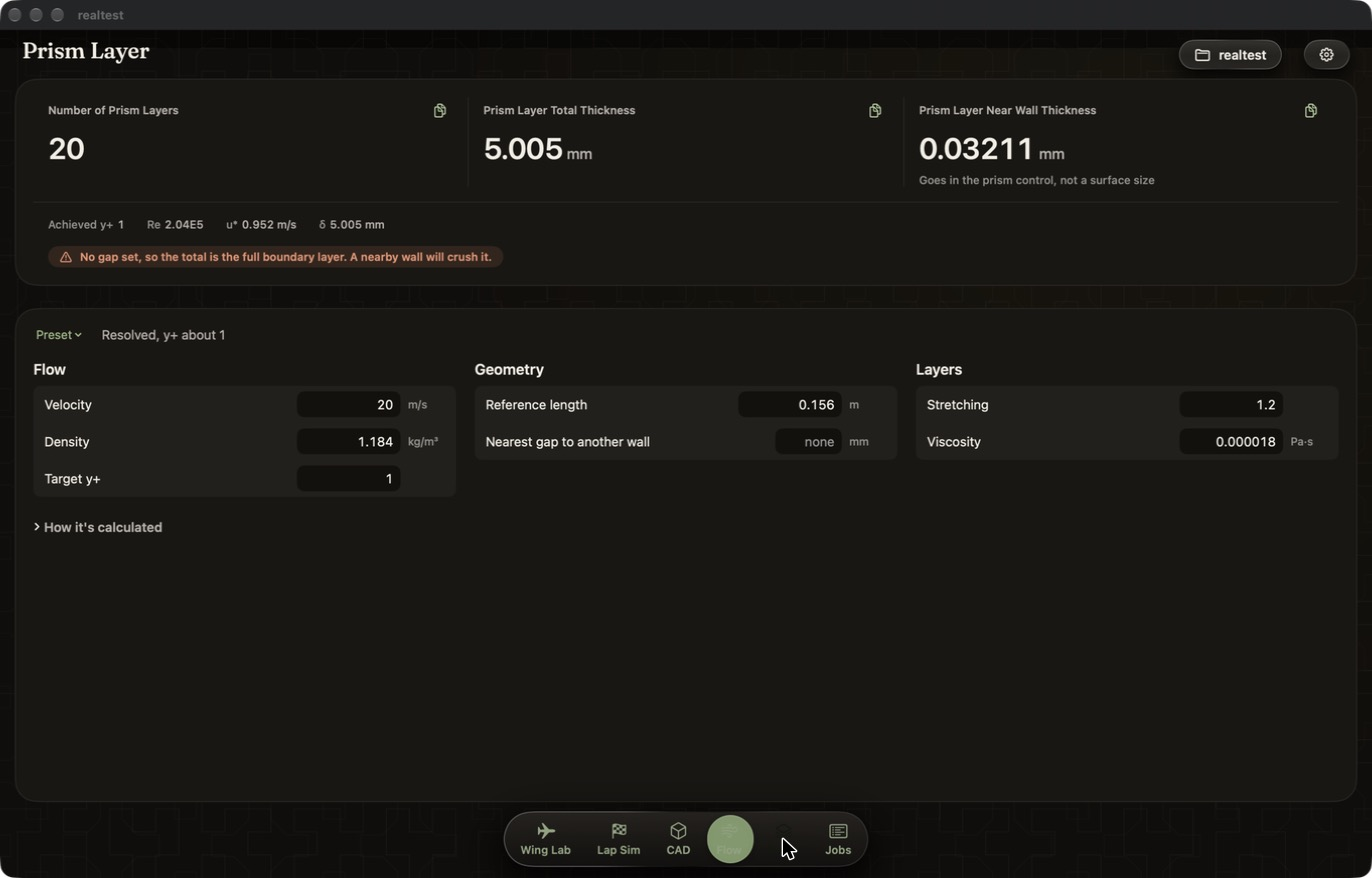
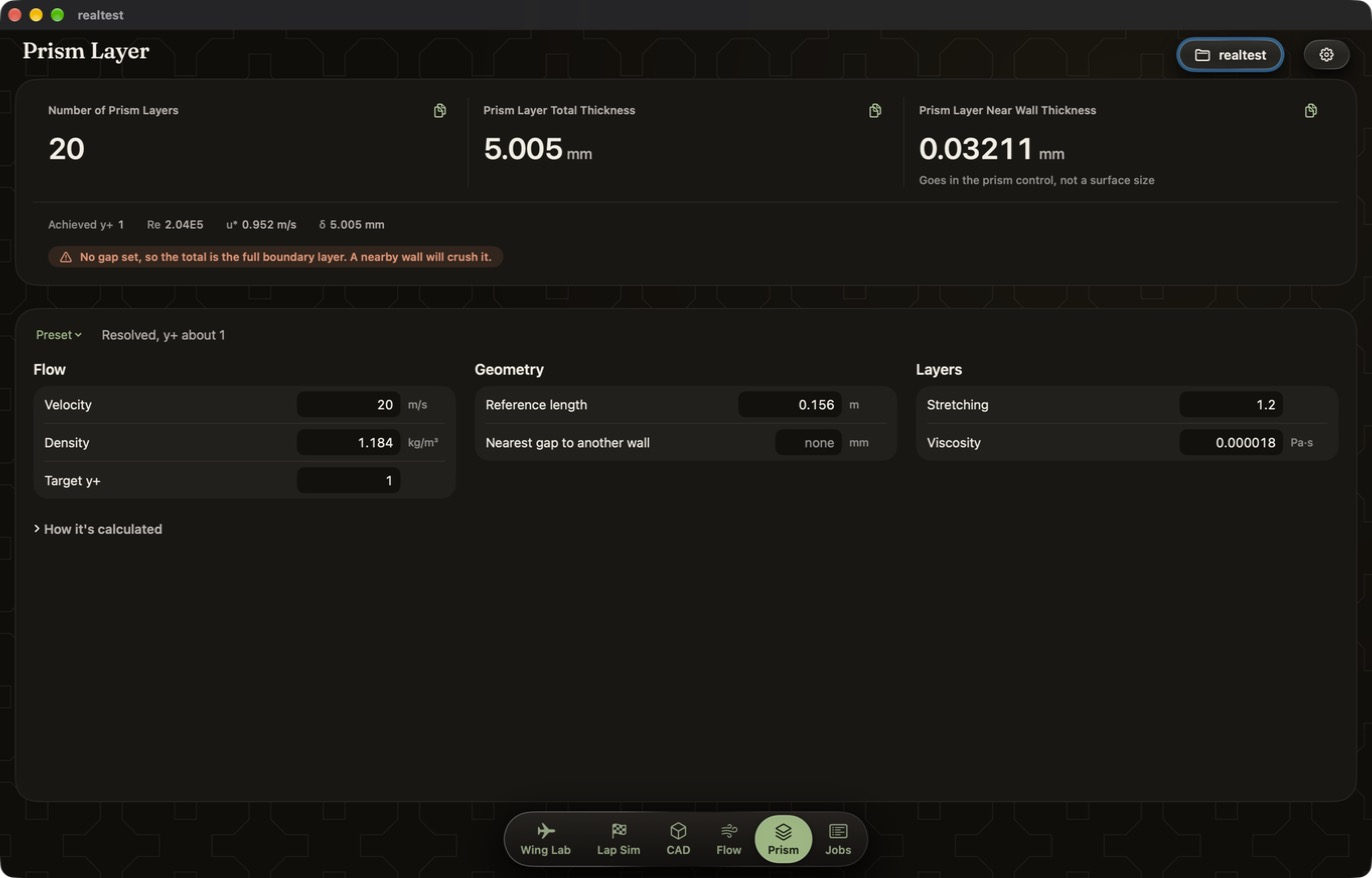
Prism menu, project values stay project values, decisions recorded
A Prism menu carries the presets and Use Project Values. Leaving a Prism field
no longer pins the project's value as if it were typed. docs/DECISIONS.md
records the November 2026 design-system changes and why; docs/polish/review.md
gets the measured counts.

diff --git a/app/AeroBench/AeroBenchApp.swift b/app/AeroBench/AeroBenchApp.swift
@@ -1,4 +1,5 @@
 import AeroBench3D
+import AppKit
 import SwiftUI
 
 @main
@@ -35,6 +36,16 @@ struct AeroBenchApp: App {
 }
 
 struct AeroBenchCommands: Commands {
+    /// Prism Layer's presets, as its Preset menu sets them
+    private func preset(yPlus: Double, layers: Int?, stretching: Double, _ undo: UndoManager?) {
+        var next = app.prism.inputs
+        next.yPlus = yPlus
+        next.stretching = stretching
+        if let layers { next.layers = layers }
+        app.tool = .prismLayer
+        app.prism.set(\.self, next, "Preset", undo: undo)
+    }
+
     let app: AppState
     @Environment(\.openWindow) private var openWindow
     @AppStorage("dummy.duration") private var dummyDuration = 10
@@ -109,6 +120,15 @@ struct AeroBenchCommands: Commands {
             Button("Export Elements as .dat…") { app.exportWingDat() }
             Button("Export Points as CSV…") { app.exportWingCSV() }
             Button("Export Report as PDF…") { app.exportWingReport() }
+        }
+        CommandMenu("Prism") {
+            let undo = { NSApp.keyWindow?.undoManager }
+            Button("Wing / Floor Preset") { preset(yPlus: 1, layers: nil, stretching: 1.2, undo()) }
+            Button("Body / Wheels Preset") { preset(yPlus: 40, layers: 4, stretching: 1.25, undo()) }
+            Button("Suspension Preset") { preset(yPlus: 40, layers: 3, stretching: 1.3, undo()) }
+            Divider()
+            Button("Use Project Values") { app.prism.set(\.self, PrismInputs(), "Use Project Values", undo: undo()) }
+                .disabled(app.prism.inputs == PrismInputs())
         }
         CommandMenu("Lap Sim") {
             Button("Run Lap Sim") { app.tool = .lapSim; app.runLapSim() }

diff --git a/app/AeroBench/Views/PrismLayerView.swift b/app/AeroBench/Views/PrismLayerView.swift
@@ -255,7 +255,8 @@ struct PrismLayerView: View {
 
     /// A value that follows the project until it's typed
     private func project(_ key: WritableKeyPath<PrismInputs, Double?>, _ shown: Double, _ name: String) -> Binding<Double> {
-        Binding(get: { shown }, set: { set(key, $0, name) })
+        // Leaving the field commits what it shows: that isn't typing a value
+        Binding(get: { shown }, set: { if inputs[keyPath: key] != nil || $0 != shown { set(key, $0, name) } })
     }
 
     private func copy(_ text: String, _ key: String) {

diff --git a/docs/DECISIONS.md b/docs/DECISIONS.md
@@ -1226,6 +1226,57 @@ attack, a ground, and sections other than NACA 6212; a study's RANS
 calibration of the starting wing and its closing RANS checks cover a
 design, as before.
 
+## November 2026: design-system polish
+
+**Content is solid, glass is for controls.** Panes are `surface` with a 1 pt
+separator hairline (controlBorder under Increase Contrast); the sheen, gradient
+rim and pane material are gone. Apple's Materials guidance keeps Liquid Glass in
+the functional layer, and glass on content was the most cited machine-made tell.
+The dock, buttons and segmented controls keep their glass.
+
+**The space-filling curves stay, refracted.** The November sage37 skill drops
+backdrops, but Dominic chose to keep each tool's curve and its refraction
+shader. With solid panes the bend only shows in the gaps between them; making
+panes translucent again would bring it back if wanted.
+
+**Motion eases out with no overshoot.** press, toggle, thumb and lens are
+`timingCurve(0.2, 0, 0, 1)` at 0.24, 0.28, 0.36 and 0.32 s. Bouncy easing read
+as decoration.
+
+**Glassout is plain machine output.** The Jobs log is the only console: a solid
+tube with a hairline, monospaced lines, no scanlines, glow, bezel, sheen,
+uppercase or brackets. S37Spotlight and the unused GOPlainButton are deleted.
+
+**Fewer words, one place for background.** Header notes that restated the
+screen are gone; the title is Fraunces 24. Each tool keeps one How it's
+calculated disclosure for derivations, the Solver Accuracy window keeps the
+long-form trust notes, and errors sit at the field with a critical outline and
+the fix (Prism Layer, Flow's legend range). Terms follow docs/polish/glossary.md.
+
+**One control language.** docs/polish/controls.md maps each job to one control:
+S37ButtonStyle (one prominent per tool), S37Segmented for views of one thing,
+S37FieldRow / S37Section / S37Row for dense rows, S37EmptyState for anything
+missing. The nine grouped Forms and ten system segmented pickers are gone.
+S37ButtonStyle gained a compact size under `.controlSize(.small)` for toolbars,
+and S37ToggleButtonStyle draws a mode that stays on. Button sizes stay at
+AeroBench's dense 32 pt rather than the skill's 44 pt: this is a desktop tool
+for one expert, and density was the brief.
+
+**Undo through the window.** Prism inputs, Lap Sim setup and car values, the
+track editor, Flow calibration and Wing Lab register with the window's undo
+manager, so Edit > Undo names the step. Wing Lab keeps its own snapshot stacks
+and mirrors each entry into the manager. Opening a project, video or demo
+isn't an edit and clears the tool's history.
+
+**Every command in the menu bar.** A View menu switches the seven tools on
+Cmd-1 to Cmd-7. Wing, Lap Sim, CAD, Flow and Jobs menus carry each tool's
+actions; Cmd-R runs the current tool's main job (enabled only in that tool).
+Flow's Open Video moved to Opt-Cmd-O, off Open Project's Cmd-O.
+
+**Context over input.** Prism Layer starts from Wing Lab's speed, air and main
+chord and remembers typed values per project (user defaults, keyed by project
+path); Use project values goes back.
+
 ## Ideas for later
 
 Not built yet; noted so they are not lost.

diff --git a/docs/polish/review.md b/docs/polish/review.md
@@ -22,6 +22,7 @@ Per tool, every visible element, with the principle it answers to (numbers from 
 | Velocity, density, viscosity, reference length typed by hand | change | Start from Wing Lab's speed, air and main chord; a typed value stays typed per project; "Use project values" goes back (5, context over input). |
 | Every input | change | Undoable, named in Edit ▸ Undo (3). |
 | How it's calculated | keep | The tool's one background disclosure (1). |
+| Prism menu | new | The three presets and Use Project Values (4). |
 
 ## Jobs
 
@@ -156,3 +157,10 @@ CAD after shot with the empty state: `2-after-cad.jpg`.
 | Optimiser, sweep, laminar-zone and SU2 notes | change | Each cut to one short sentence (1). |
 | Run polar empty-state button | change | sage37 glass (2). |
 | Wing menu | new | Design, Quick Estimate, Element Polar, Run CFD ⌘R, Start and Stop Study, Duplicate Element ⌘D, Remove Element, Pin / Swap / Clear A, Show Library ⌥⌘L, Show Inspector ⌥⌘I, the three exports (4). |
+
+## Measured
+
+- Explanatory strings over 60 characters in Views/ (six or more words): 179 before, 152 after; 22,800 characters before, 18,300 after. Of what's left, the longest blocks (Prism, Lap Sim and Wing Lab derivations, Flow's capture guide) sit behind a closed How it's calculated disclosure, and the Solver Accuracy window keeps its long-form notes, so the text visible at rest dropped further than these totals show. Not measured on screen.
+- Tooltips: 54 before, 55 after (Wing Lab gained shortcut hints on the panel buttons); none repeats its label.
+- System segmented pickers 10 to 0, grouped Forms inside panes 9 to 0, ContentUnavailableView 7 to 0.
+- Header notes: 7 to 0.
